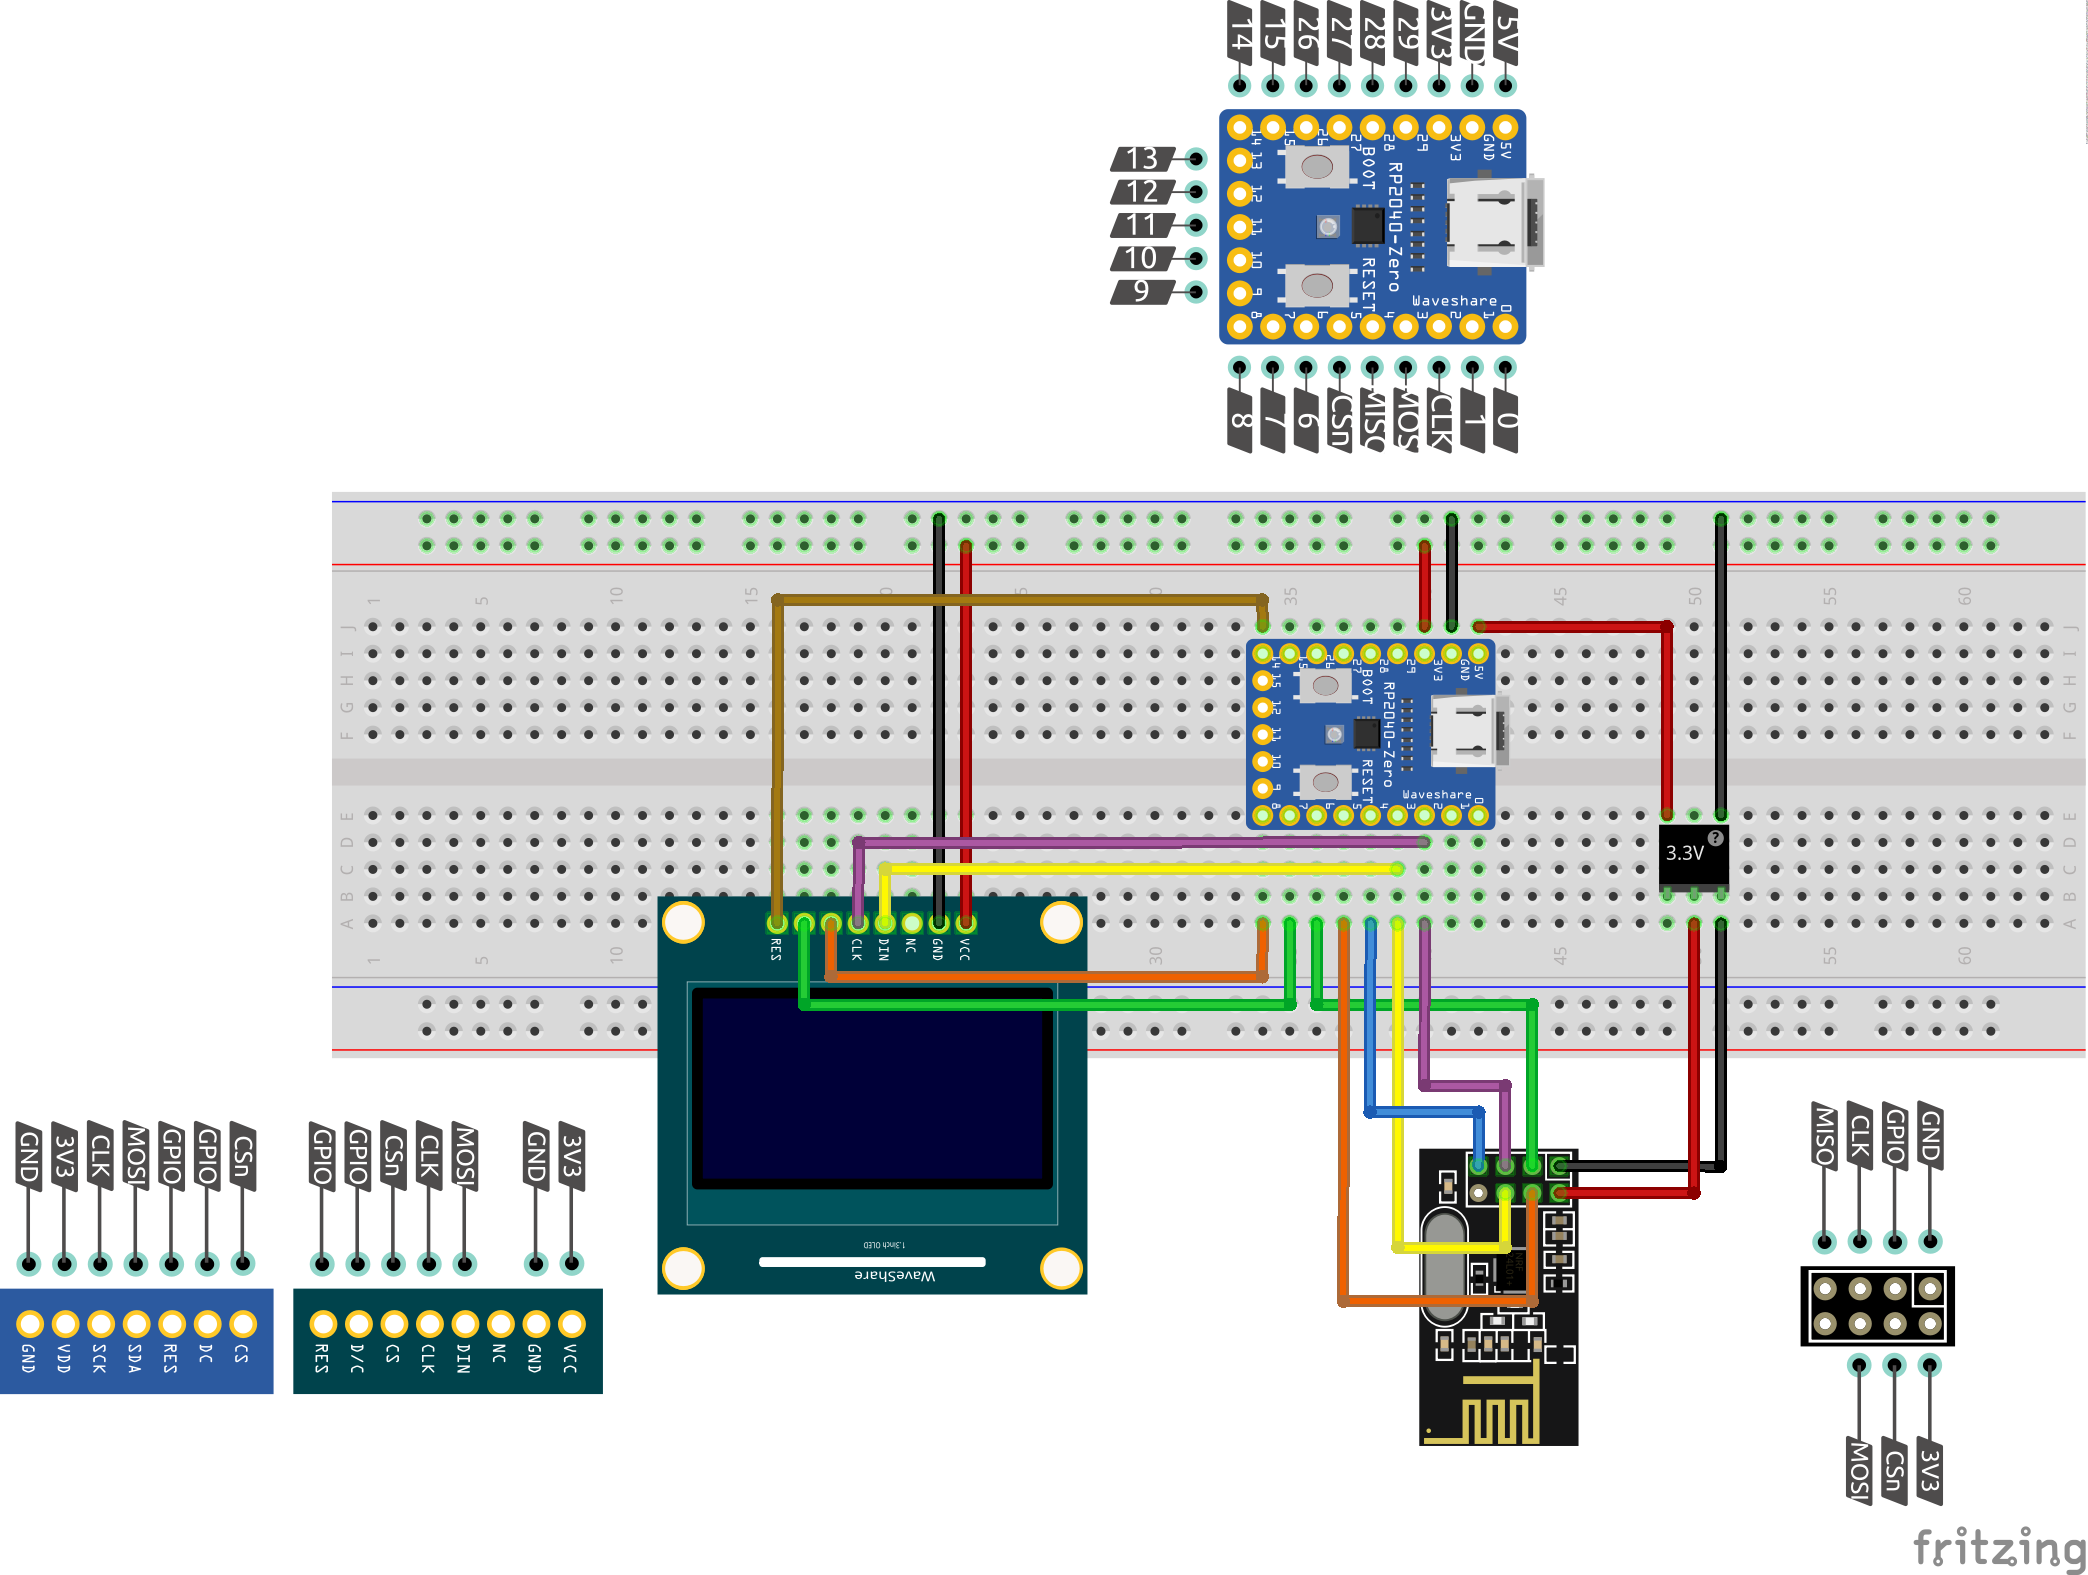
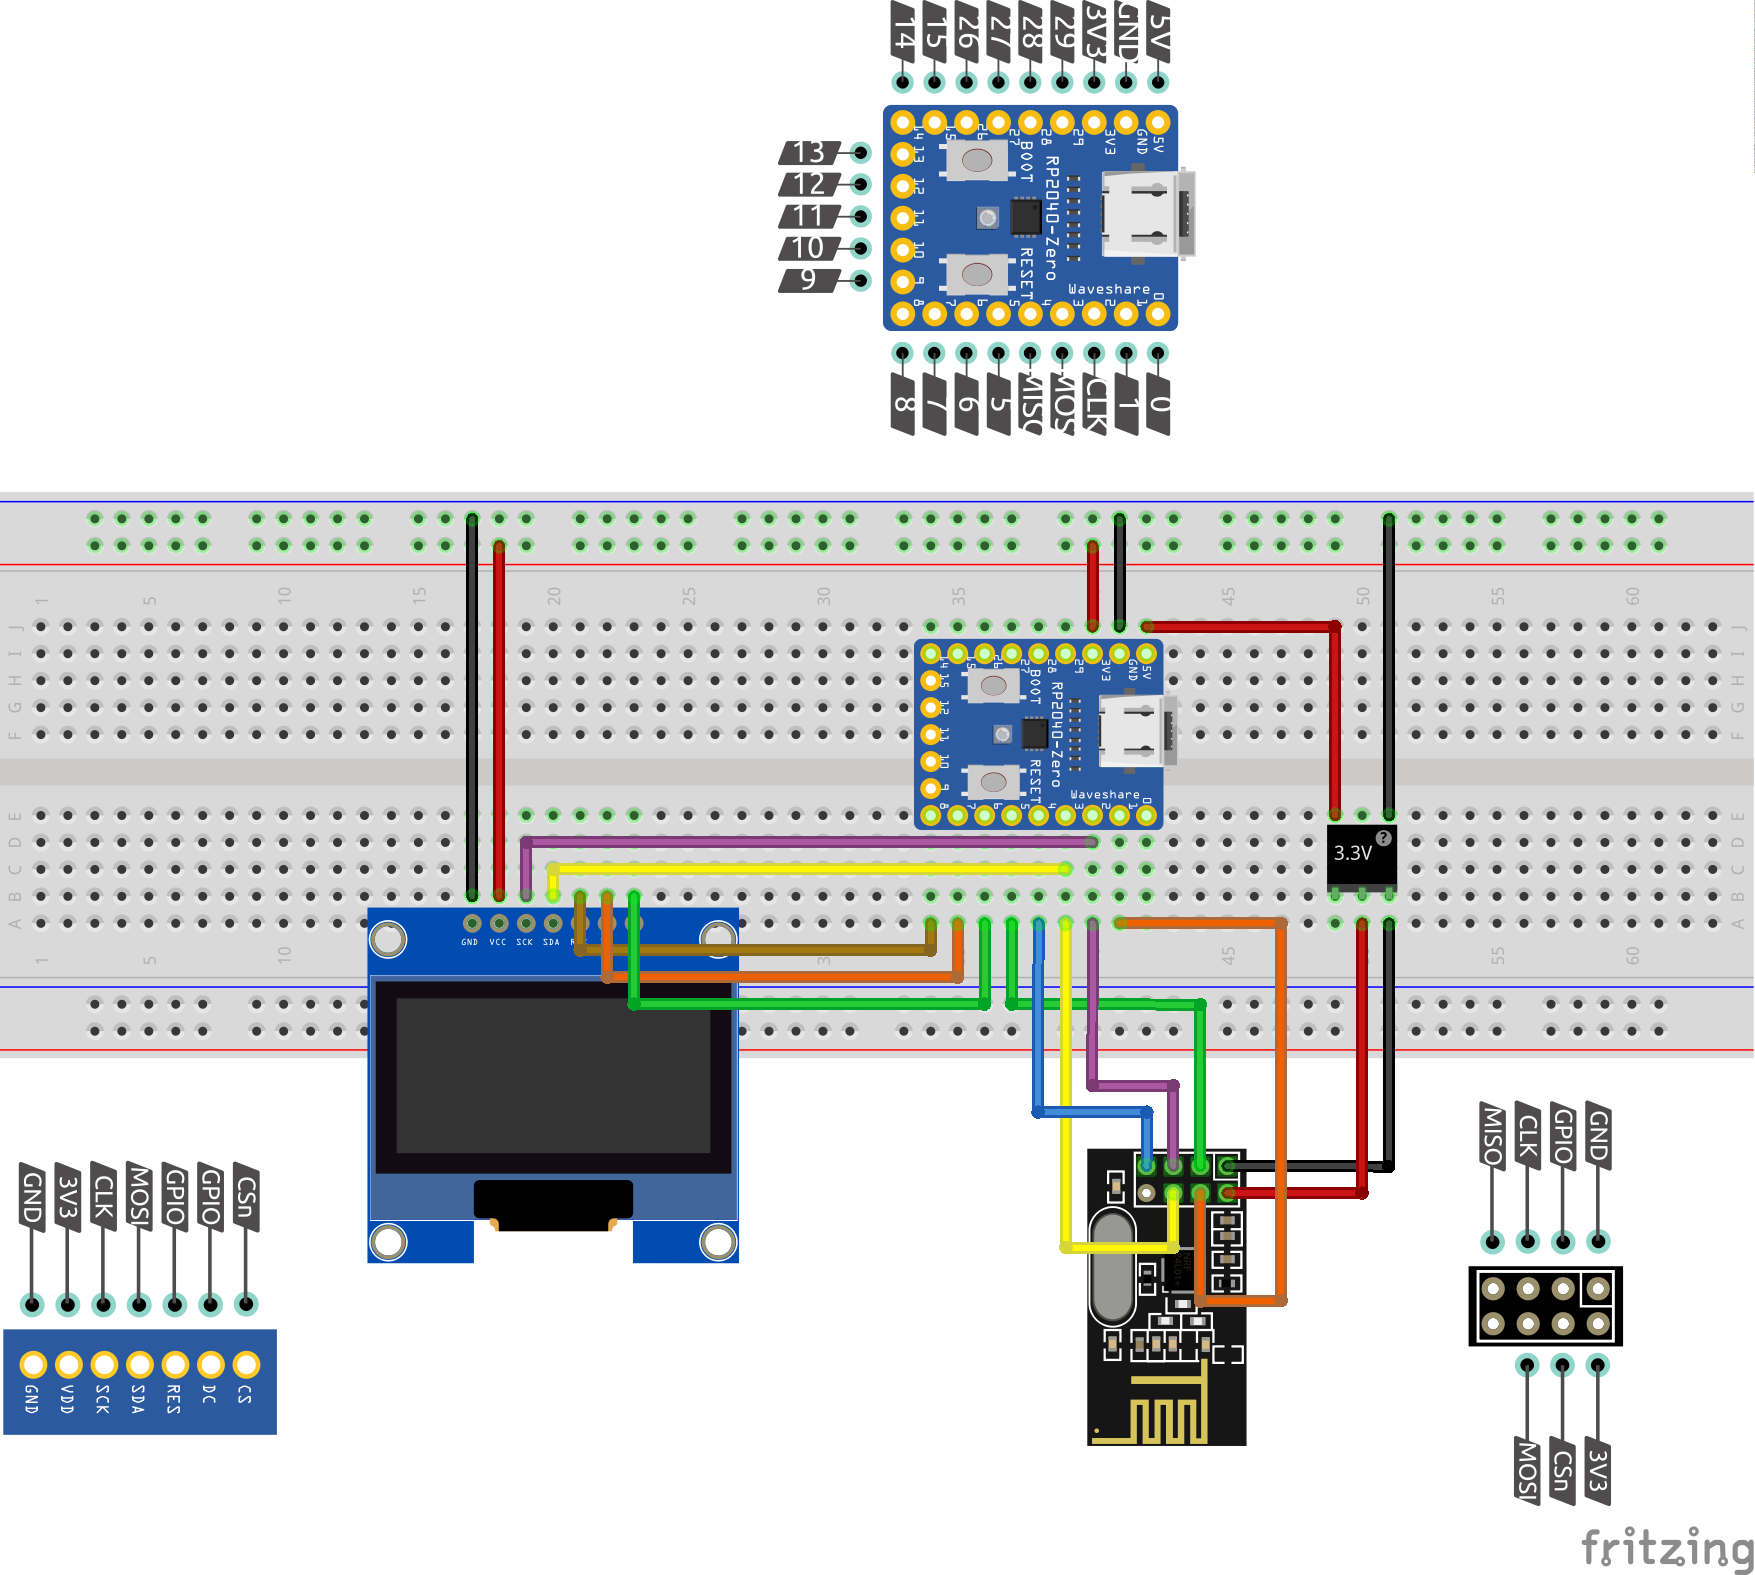
Updated breadboard PNG seen in README.

diff --git a/README.md b/README.md
@@ -96,9 +96,11 @@ Breadboard
 
 As well as the breadboard layout of the various parts, the diagram above also includes larger views of the pinouts for the RP2040-Zero, OLED module and nRF module in order to make the SPI pins involved clearer.
 
-**Warning:** different SPI OLED modules will have the same set of seven pins but there's no consistency in the order of these pins - I've shown the pinouts for both the [Waveshare 1.3" OLED (variant B)](https://www.waveshare.com/1.3inch-OLED-B.htm) and for the OLED module from AliExpress (that's linked to above).
+**Warning:** different SPI OLED modules will have the same set of seven pins but there's no consistency in the order of these pins - I've shown the pinout for the OLED module from AliExpress (that's linked to above).
 
-I've soldered the header for pins 9 to 13 of the RP2040-Zero pointing upwards in order to make it possible to plug it into a breadboard. However, if you've only got one RP2040-Zero and plan to solder it to a protoboard then obviously all header should be soldered pointing downward.
+In commit `d8d6967`, I show the pinout for the [Waveshare 1.3" OLED (variant B)](https://www.waveshare.com/1.3inch-OLED-B.htm).
+
+I've soldered the header for pins 9 to 13 of the RP2040-Zero pointing upwards in order to make it possible to plug it into a breadboard. However, if you've only got one RP2040-Zero and plan to solder it to a protoboard then there's no need to solder header to pins 9 to 13 as they're not used for this setup.
 
 RP2040-Zero blink LED
 ---------------------
